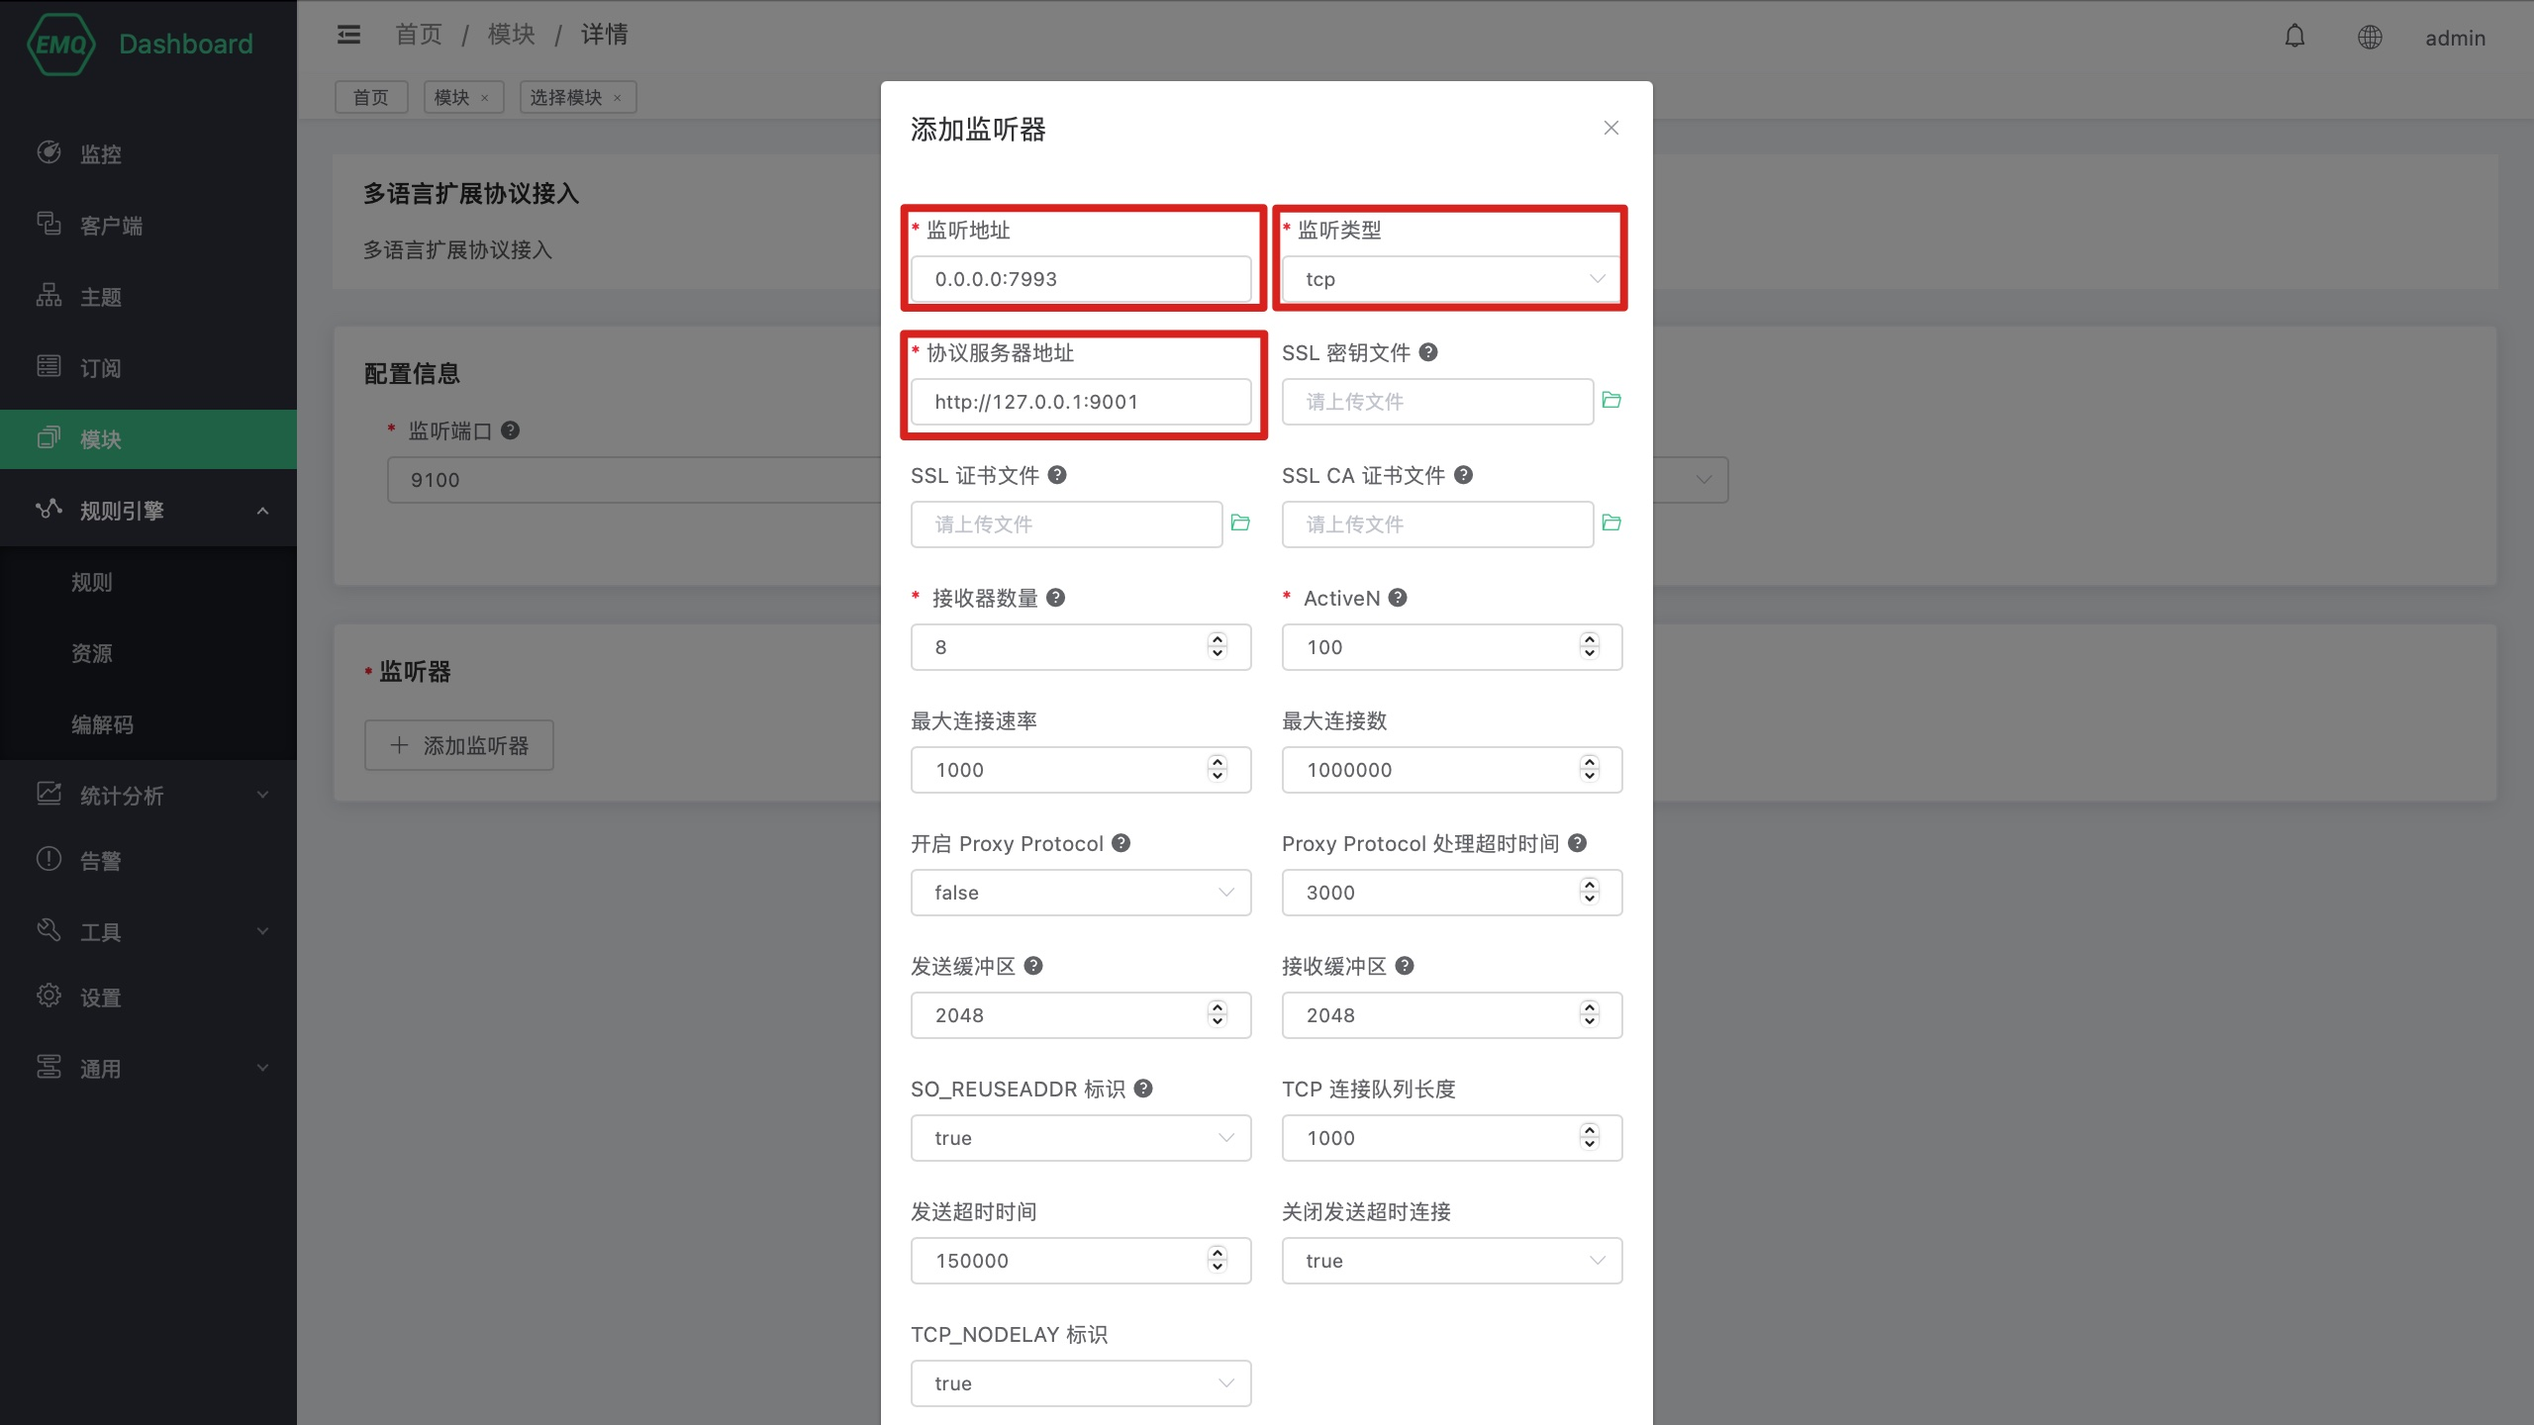
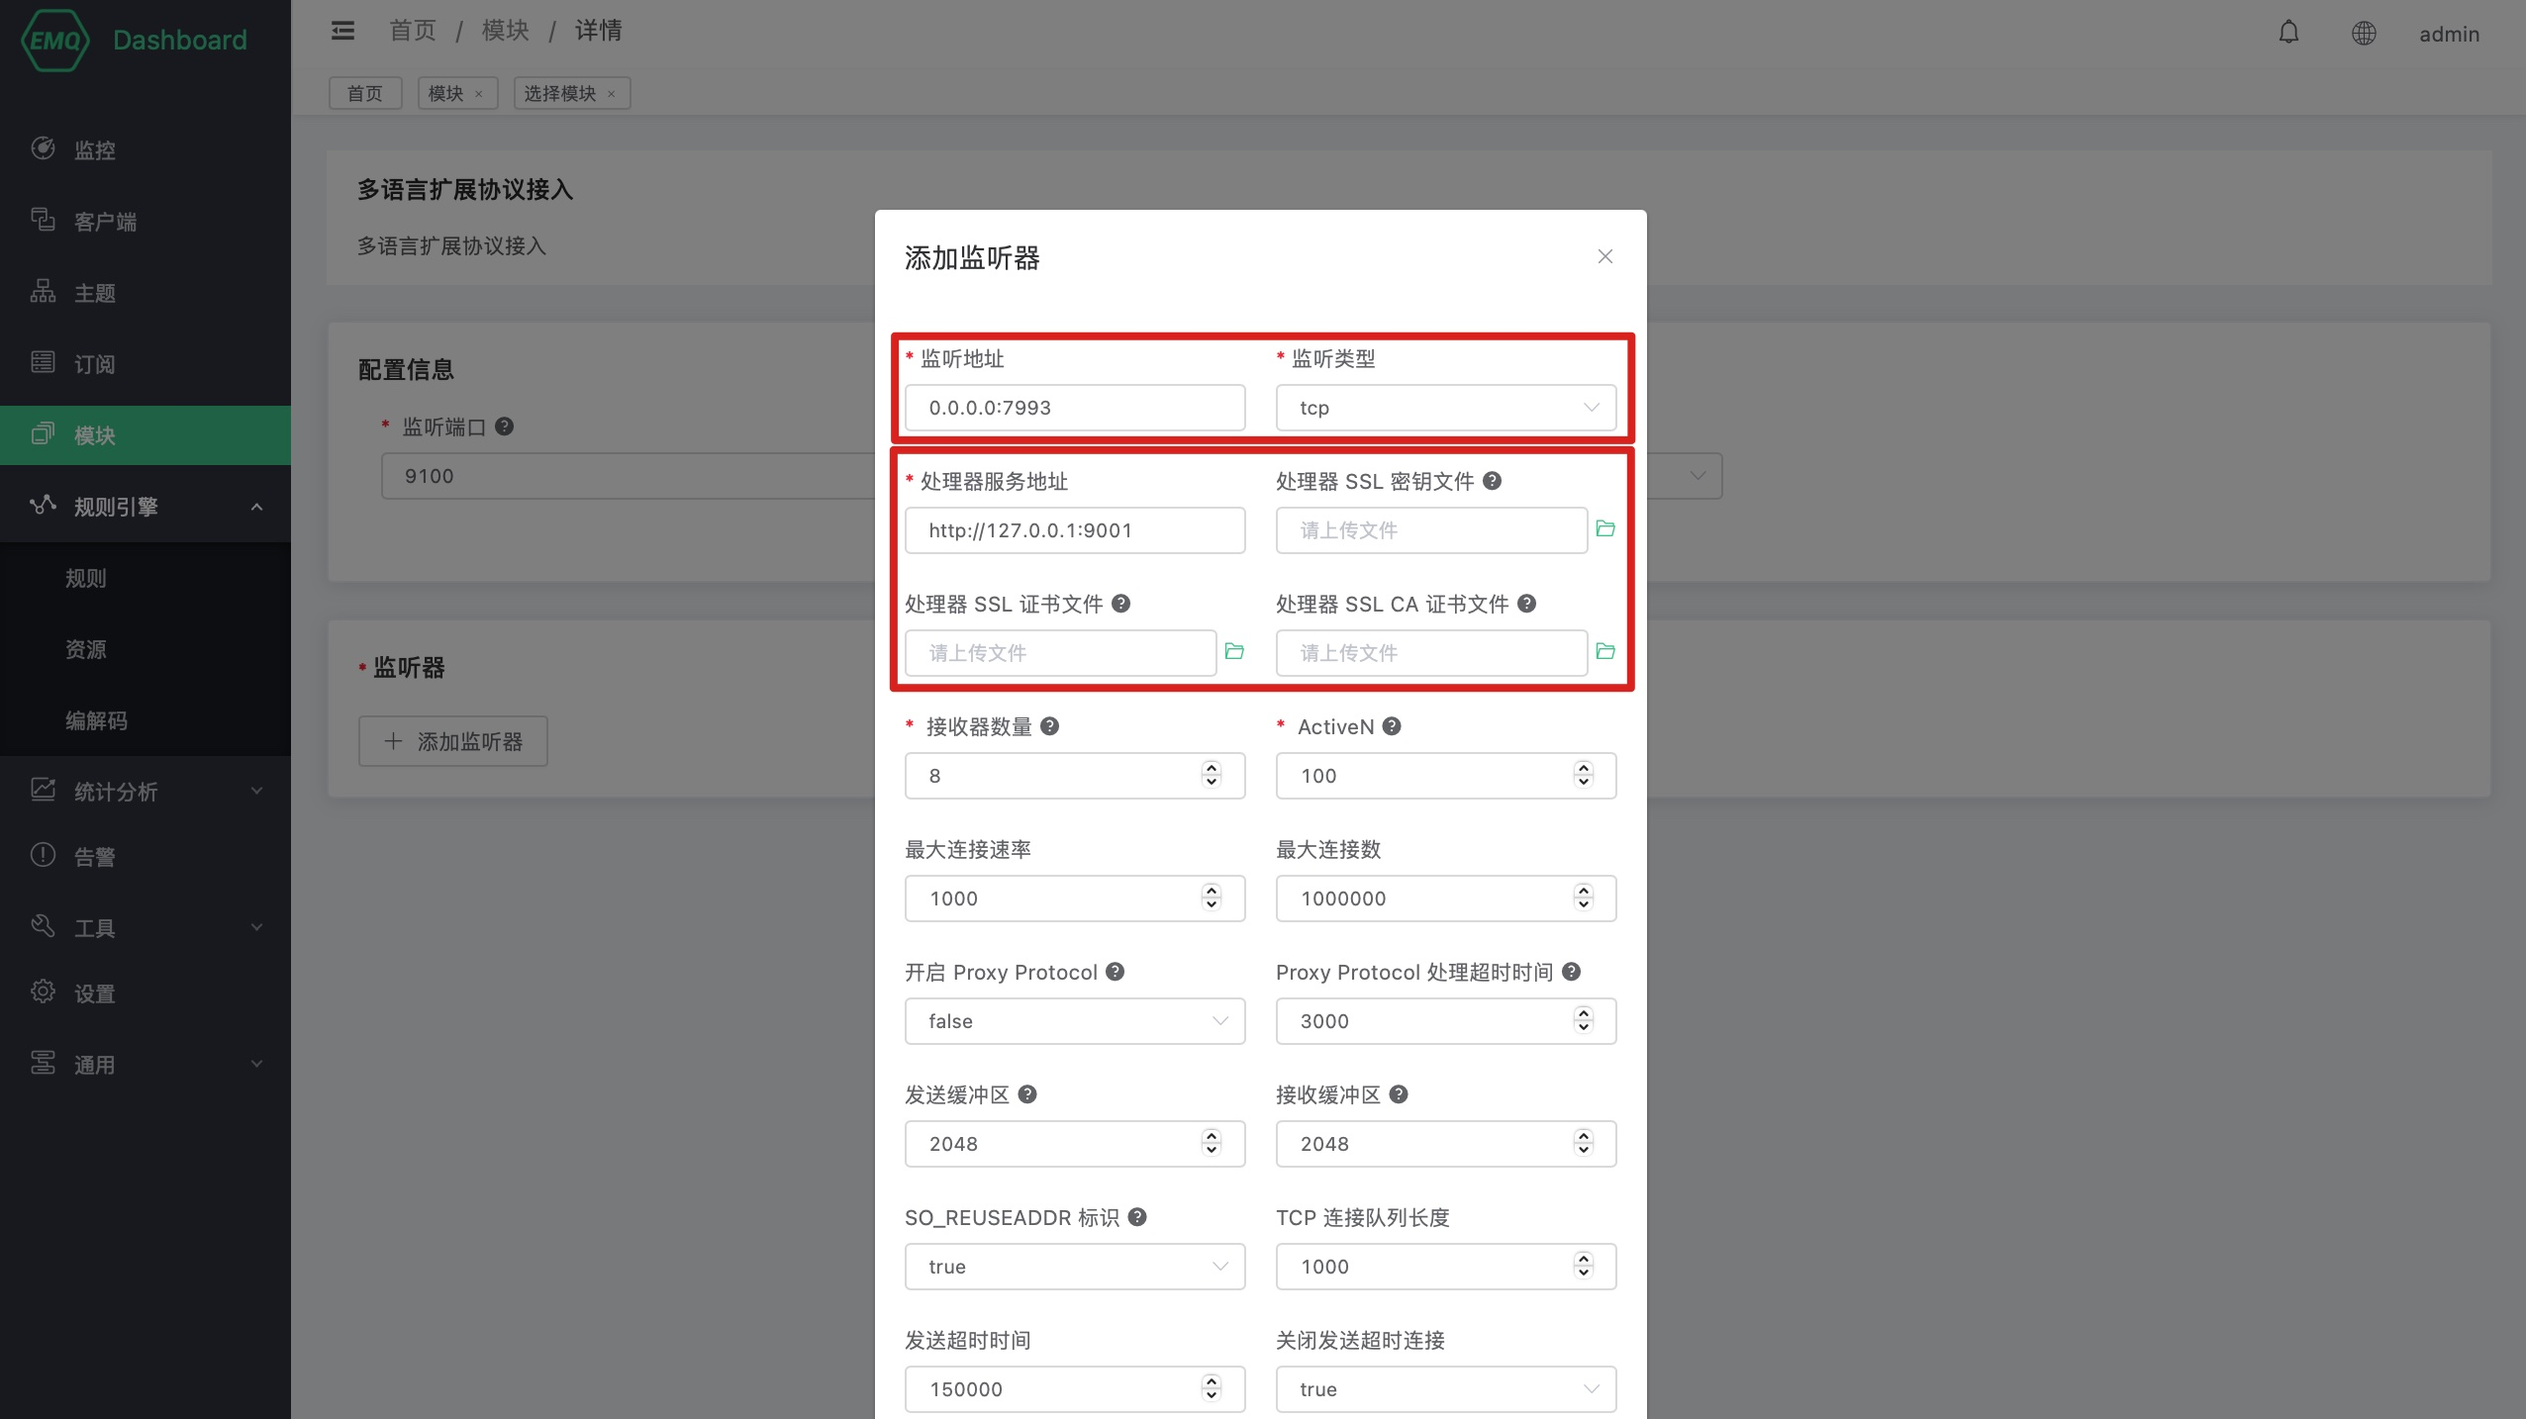
docs: Add modules/coap_protocol.md

diff --git a/modules/coap_protocol.md b/modules/coap_protocol.md
@@ -1,1 +1,179 @@
-# COAP 协议网关
+# CoAP 协议网关
+
+CoAP 协议网关为 EMQ X 提供了 CoAP 协议的接入能力。它允许符合某种定义的 CoAP 消息格式向 EMQ X 执行发布，订阅，和接收消息等操作。
+
+## 创建模块
+
+打开 [EMQ X Dashboard](http://127.0.0.1:18083/#/modules)，点击左侧的 “模块” 选项卡，选择添加：
+
+![image-20200928161310952](./assets/modules.png)
+
+点击 “选择”，然后选择 “CoAP 接入网关”：
+
+![Create CoAP Protocol Gateway](assets/coap_add.jpg)
+
+配置相关基础参数：
+
+![Configure CoAP Protocol Gateway](assets/coap_conf1.jpg)
+
+添加监听端口：
+
+![Configure CoAP Protocol Gateway](assets/coap_conf2.jpg)
+
+配置监听参数：
+
+![Configure CoAP Protocol Gateway](assets/coap_conf3.jpg)
+
+点击 “确定” 完成监听器的配置，然后点击 “添加” 完成模块的创建： 
+
+![Complete CoAP Protocol Gateway](assets/coap_conf4.jpg)
+
+## 使用示例
+
+### 客户端
+
+[libcoap](http://github.com/obgm/libcoap) 是一个非常易用的 CoAP 客户端库，此处我们使用它作为 CoAP 客户端来测试 EMQ X CoAP 接入网关的功能。
+
+```
+git clone http://github.com/obgm/libcoap
+cd libcoap
+./autogen.sh
+./configure --enable-documentation=no --enable-tests=no
+make
+```
+
+### PUBLISH 示例
+
+使用 `libcoap` 发布一条消息：
+
+```bash
+libcoap/examples/coap-client -m put -e 1234  "coap://127.0.0.1/mqtt/topic1?c=client1&u=tom&p=secret"
+```
+
+- 主题名称为："topic1"  (不是 "/topic1")
+- Client ID 为："client1"
+- 用户名为："tom"
+- 密码为："secret"
+- Payload 为："1234"
+
+### SUBSCRIBE 示例
+
+使用 `libcoap` 订阅一个主题：
+
+```
+libcoap/examples/coap-client -m get -s 10 "coap://127.0.0.1/mqtt/topic1?c=client1&u=tom&p=secret"
+```
+
+- 主题名称为："topic1"  (不是 "/topic1")
+- Client ID 为："client1"
+- 用户名为："tom"
+- 密码为："secret"
+- 订阅的持续时间为：10 秒
+
+在这个期间，如果 `topic1` 主题上有消息产生，`libcoap` 便会收到该条消息。
+
+### 通信接口说明
+
+#### CoAP Client Observe Operation
+
+在 EMQ X CoAP 接入网关中，可以使用 CoAP 的 Observe 操作实现一个订阅主题的操作：
+
+```
+GET  coap://localhost/mqtt/{topicname}?c={clientid}&u={username}&p={password}    with OBSERVE=0
+```
+
+- 路径中的 "mqtt "为必填项
+- 将 {topicname}、{clientid}、{username} 和 {password} 替换为你的真实值
+- {topicname} 和 {clientid} 为必填项
+- 如果 clientid 不存在，将返回 "bad_request"
+- URI 中的 {topicname} 应该用 percent-encoded，以防止特殊字符，如 + 和 #
+- {username} 和 {password} 是可选的
+- 如果 {username} 和 {password} 不正确，将返回一个 uauthorized 错误
+- 订阅的 QoS 等级恒定为 1
+
+
+#### CoAP Client Unobserve Operation
+
+使用 Unobserve 操作，取消订阅主题：
+
+```
+GET  coap://localhost/mqtt/{topicname}?c={clientid}&u={username}&p={password}    with OBSERVE=1
+```
+
+- 路径中的 "mqtt "为必填项
+- 将 {topicname}、{clientid}、{username} 和 {password} 替换为你的真实值
+- {topicname} 和 {clientid} 为必填项
+- 如果 clientid 不存在，将返回 "bad_request"
+- URI 中的 {topicname} 应该用 percent-encoded，以防止特殊字符，如 + 和 #
+- {username} 和 {password} 是可选的
+- 如果 {username} 和 {password} 不正确，将返回一个 uauthorized 错误
+
+#### CoAP Client Notification Operation
+
+接入网关会将订阅主题上收到到消息，以 `observe-notification` 的方式投递到 CoAP 客户端：
+
+
+- 它的 payload 正是 MQTT 消息中的的 payload
+- payload 数据类型为 "application/octet-stream"
+
+
+#### CoAP Client Publish Operation
+
+使用 CoAP 的 PUT 命令执行一次 PUBLISH 操作：
+
+```
+PUT  coap://localhost/mqtt/{topicname}?c={clientid}&u={username}&p={password}
+```
+- 路径中的 "mqtt "为必填项
+- 将 {topicname}、{clientid}、{username} 和 {password} 替换为你的真实值
+- {topicname} 和 {clientid} 为必填项
+- 如果 clientid 不存在，将返回 "bad_request"
+- URI 中的 {topicname} 应该用 percent-encoded，以防止特殊字符，如 + 和 #
+- {username} 和 {password} 是可选的
+- 如果 {username} 和 {password} 不正确，将返回一个 uauthorized 错误
+- payload 可以是任何二进制数据
+- payload 数据类型为 "application/octet-stream"
+- 发布信息将以 qos0 发送
+
+
+#### CoAP Client 保活
+
+设备应定期发出 GET 命令，作为 ping 操作保持会话在线
+
+```
+GET  coap://localhost/mqtt/{any_topicname}?c={clientid}&u={username}&p={password}
+```
+
+- 路径中的 "mqtt "为必填项
+- 将 {topicname}、{clientid}、{username} 和 {password} 替换为你的真实值
+- {topicname} 和 {clientid} 为必填项
+- 如果 clientid 不存在，将返回 "bad_request"
+- URI 中的 {topicname} 应该用 percent-encoded，以防止特殊字符，如 + 和 #
+- {username} 和 {password} 是可选的
+- 如果 {username} 和 {password} 不正确，将返回一个 uauthorized 错误
+- 客户端应该定期做 keepalive 工作，以保持会话在线，尤其是在 NAT 网络中的设备
+
+
+### 备注
+
+CoAP 接入网关不支持 `POST` 和 `DELETE` 方法。
+
+在 URI 中的主题名称必须先经过 URI 编码处理(参考：RFC 7252 - section 6.4)
+
+CoAP URI 中的 ClientId, Username, Password, Topic是 MQTT 中的概念。也就是说，CoAP 接入网关是通过借用 MQTT 中的名词概念，试图将 CoAP 信息融入到 MQTT 系统中。
+
+EMQ X 的 认证，访问控制，钩子等功能也适用于 CoAP 接入网关。比如：
+
+- 如果 用户名/密码 没有被授权, CoAP 客户端就会得到一个 `uauthorized` 的错误
+- 如果 用户名/客户端ID 不允许发布特定的主题，CoAP 消息实际上会被丢弃，尽管 CoAP 客户端会从接入网关上得到一个 Acknoledgement
+- 如果一个 CoAP 消息被发布，'message.publish' 钩子也能够捕获这个消息
+
+### Well-known locations
+--------------------
+
+CoAP 接入网关的 well-known 发现恒定的返回 "</mqtt>,</ps>"
+
+例如：
+```
+libcoap/examples/coap-client -m get "coap://127.0.0.1/.well-known/core"
+```

diff --git a/modules/exproto.md b/modules/exproto.md
@@ -38,7 +38,7 @@
 
 ## 接口设计
 
-从 gRPC 的角度上看，ExProto 会作为客户端向 `ProtocolHandler` 服务发送回调请求。同时，它也会作为服务端向外部模块提供 `ConnectionAdapter` 服务，以提供 各类接口的调用。如图：
+从 gRPC 的角度上看，ExProto 会作为客户端向 `ConnectionHandler` 服务发送回调请求。同时，它也会作为服务端向外部模块提供 `ConnectionAdapter` 服务，以提供 各类接口的调用。如图：
 
 ![Extension Protocol gRPC Arch](assets/exproto-grpc-arch.jpg)
 
@@ -101,7 +101,7 @@ service ConnectionHandler {
 
 1. 拷贝出当前版本的 `lib/emqx_exproto-<x.y.z>/priv/protos/exproto.proto` 文件。
 2. 使用对应编程语言的 gRPC 框架，生成 `exproto.proto` 的 gRPC 服务端的代码。
-3. 实现 exproto.proto 当中 `ProtocolHandler` 服务的接口。
+3. 实现 exproto.proto 当中 `ConnectionHandler` 服务的接口。
 
 开发完成后，需将该服务部署到与 EMQ X 能够通信的服务器上，并保证端口的开放。
 
@@ -114,7 +114,7 @@ service ConnectionHandler {
 
 1. ExProto 的 `ConnectionApdapter` 服务的监听地址。用于接收 gRPC 请求。
 2. 配置 **监听器(Listener)**，提供 TCP/UDP/SSL/DTLS 的地址监听。用于监听、接收设备的连接。
-3. 为每个监听器指定一个 `ProtocolHandler` 的服务地址。用于发送各种事件回调到用户的服务。
+3. 为每个监听器指定一个 `ConnectionHandler` 的服务地址。用于发送各种事件回调到用户的服务。
 
 打开 EMQ X Dashboard，点击左侧的 “模块” 选项卡，选择添加
 
@@ -124,11 +124,14 @@ service ConnectionHandler {
 
 ![Add ExProto Module](assets/exproto-add.jpg)
 
-配置 gRPC 服务的监听地址，和是否开启 SSL：
+配置 `ConnectionAdapter` 服务的监听地址，和是否为其开启 SSL 监听：
 
 ![Configure ExProto gRPC Server](assets/exproto-conf-1.jpg)
 
-配置 ExProto 监听器的监听地址，和 协议处理服务(ProtocolHandler) 的回调地址：
+点击 “添加监听器” 为 ExProto 模块配置监听器，其中包括：
+
+1. 监听器的 `监听地址` 和 `监听类型`，它表明以何种方式接收自定义协议的 Socket 连接。
+2. 连接处理服务(ConnectionHandler) 的 `处理器服务地址` 和可能会有的 SSL 证书配置，它表明 ExProto 如何访问 ConnectionHandler 服务。
 
 ![Configure ExProto Listener](assets/exproto-conf-2.jpg)
 

diff --git a/SUMMARY_EE.md b/SUMMARY_EE.md
@@ -46,10 +46,10 @@
   * [MQTT-SN 接入网关](modules/mqtt_sn_protocol.md)
   * [TCP 接入网关](modules/tcp_protocol.md)
   * [JT/T808 接入网关](modules/jt808_protocol.md)
-  * [COAP 接入网关](modules/coap_protocol.md)
+  * [CoAP 接入网关](modules/coap_protocol.md)
   * [Stomp 接入网关](modules/stomp_protocol.md)
-  * [Kafka 消费者](modules/kafka_consumer.md)
-  * [Pulsar 消费者](modules/pulsar_consumer.md)
+  * [Kafka 消费组](modules/kafka_consumer.md)
+  * [Pulsar 消费组](modules/pulsar_consumer.md)
   * [MQTT Subscriber](modules/mqtt_subscriber.md)
   * [多语言扩展协议接入](modules/exproto.md)
   * [多语言扩展钩子](modules/exhook.md)
@@ -58,9 +58,9 @@
   * [主题监控](modules/topic_metrics.md)
   * [MQTT 增强认证](modules/auth_sasl.md)
   * [上下线通知](modules/presence.md)
-  * [MQTT 代理订阅](modules/subscription_module.md)
+  * [MQTT 代理订阅](modules/subscription.md)
   * [主题重写](modules/topic_rewrite.md)
-  * [MQTT 保留消息](modules/retainer_module.md)
+  * [MQTT 保留消息](modules/retainer.md)
   * [MQTT 消息延迟发布](modules/delayed_publish.md)
 
 * [插件](advanced/plugins.md)
@@ -169,12 +169,6 @@
    * [RabbitMQ 桥接](bridge/bridge.md#rabbitmq-桥接)
    * [Pulsar 桥接](bridge/bridge.md#pulsar-桥接)
    * [RocketMQ 桥接](bridge/bridge.md#rocketmq-桥接)
-
-* 多语言支持
-  * [简介](advanced/lang.md)
-  * [钩子扩展](advanced/lang-exhook.md)
-  * [协议接入](advanced/lang-exproto.md)
-  * [Lua](advanced/lang-lua.md)
 
 * 进阶教程
   * [设备管理](tutorial/device-management.md)

diff --git a/modules/mqtt_sn_protocol.md b/modules/mqtt_sn_protocol.md
@@ -19,11 +19,11 @@ MQTT-SN 还支持设备的睡眠功能，如果设备进入睡眠状态，无法
 EMQX-SN 是 EMQ X 的一个网关接入模块，实现了 MQTT-SN 的大部分功能，它相当于一个在云端的 MQTT-SN 网关，直接和 EMQ
 X Broker 相连。
 
-## EMQX-SN 接入网关启动方式
+## 创建模块
 
 通过dashboard页面可以开启 MQTT-SN 接入网关模块
 
-打开 [EMQ X Dashboard](http://127.0.0.1:18083/#/rules)，点击左侧的 “模块” 选项卡，选择添加
+打开 [EMQ X Dashboard](http://127.0.0.1:18083/#/modules)，点击左侧的 “模块” 选项卡，选择添加
 
 ![image-20200927213049265](./assets/modules.png)
 

diff --git a/modules/jwt_authentication.md b/modules/jwt_authentication.md
@@ -2,9 +2,9 @@
 
 [JWT](https://JWT.io/) 认证是基于 Token 的鉴权机制，不依赖服务端保留客户端的认证信息或者会话信息，在持有密钥的情况下可以批量签发认证信息，是最简便的认证方式。
 
-## 选择模块
+## 创建模块
 
-打开 [EMQ X Dashboard](http://127.0.0.1:18083/#/rules)，点击左侧的 “模块” 选项卡，选择添加
+打开 [EMQ X Dashboard](http://127.0.0.1:18083/#/modules)，点击左侧的 “模块” 选项卡，选择添加
 
 ![image-20200928161310952](./assets/modules.png)
 

diff --git a/modules/pulsar_consumer.md b/modules/pulsar_consumer.md
@@ -20,11 +20,11 @@ $ ./bin/pulsar standalone
 $ ./bin/pulsar-admin topics create-partitioned-topic -p 5 testTopic
 ```
 
-通过 dashboard 页面可以开启 Kafka 消费组模块
+通过 dashboard 页面可以开启 Pulsar 消费组模块
 
 打开 [EMQ X Dashboard](http://127.0.0.1:18083/#/rules)，选择左侧的 “资源” 选项卡:
 
-选择 Kafka 消费组模块:
+选择 Pulsar 消费组模块:
 
 ![](./assets/pulsar_consumer1.png)
 
